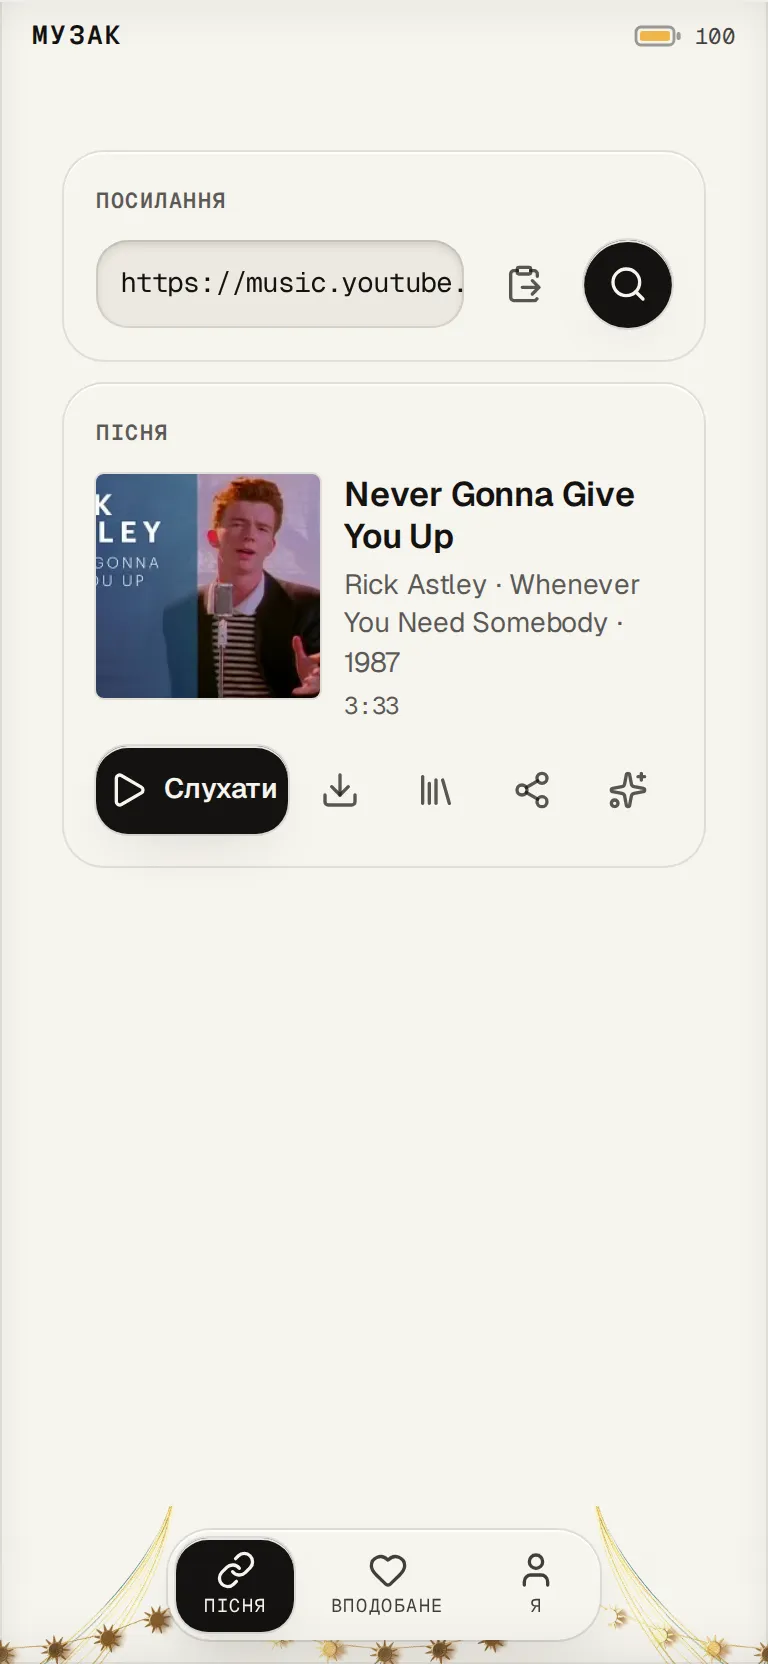
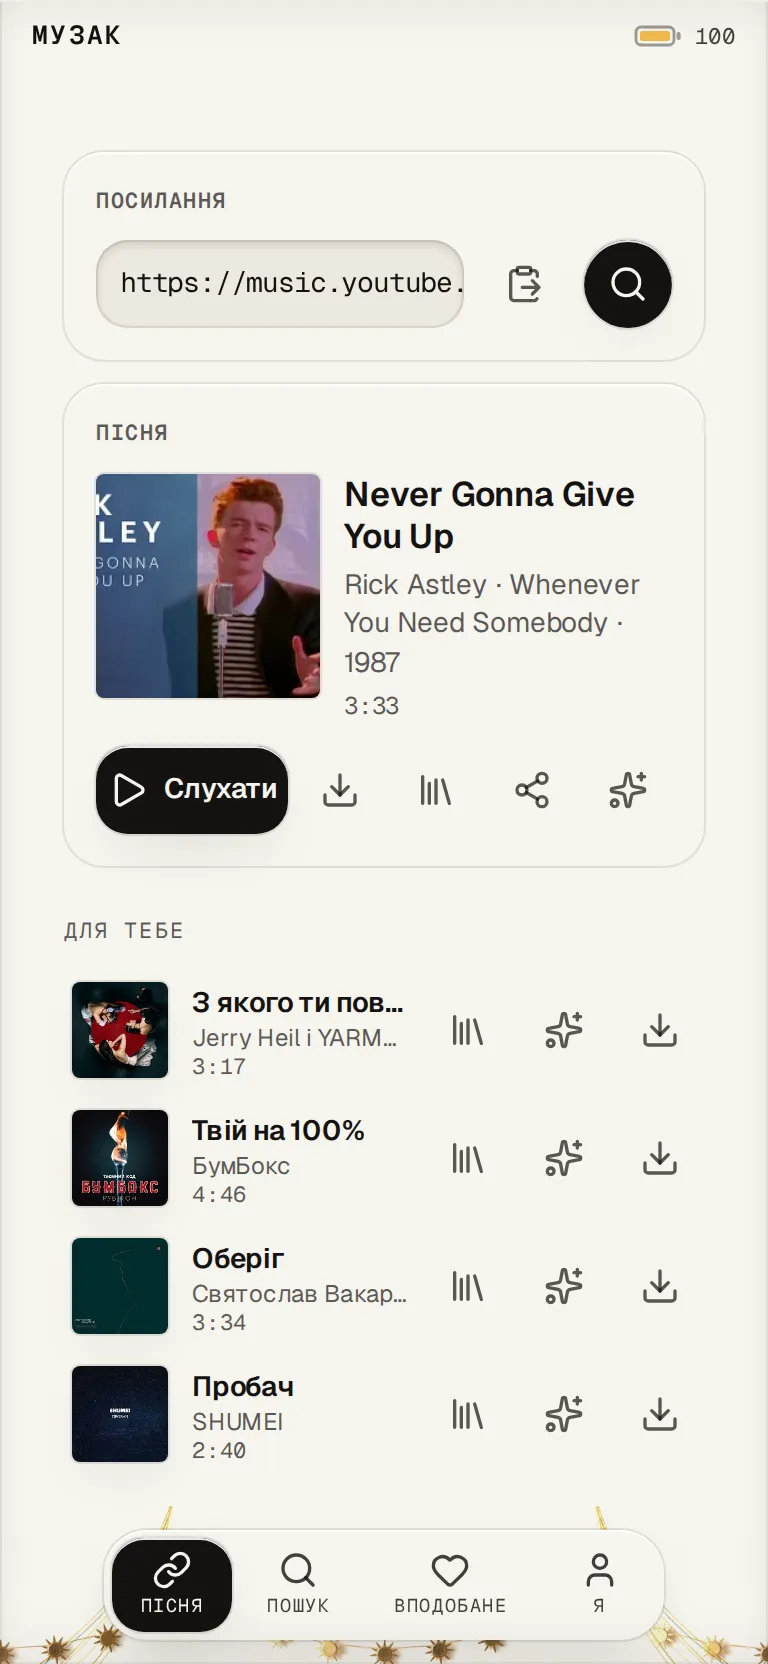
muzak: «Для тебе» — songs like the liked ones, under the song card and on search before a search
Owner 2026-10-14: the song and search screens were empty space; recommendations for the account, from the
radio of the liked songs. The three latest likes' YouTube Music radios (/feed/music/radio, microspec-edge
12052e7: 45-49 songs each in ~0.9 s, measured live) are mixed in turns by rt/muzak.js mixRadios, without the
liked songs; the list scrolls on with the next two likes' radios. Shared by both tabs, read once a visit.
Not connected: one line and «Підключити YouTube». The song tab gets the big player over the list when one of
these plays; the section sits beside the card, so the card's tools stay its own.

The store's song capture retaken with the section; the search capture retaken at the full 2x size the rest
of the store uses (my 2026-10-13 import had halved it).

diff --git a/apps/muzak/view.js b/apps/muzak/view.js
@@ -13,10 +13,10 @@ import { holdAudio } from "/_rt/mediasession.js";
 import { sealedUrl } from "/_rt/sealedfetch.js";
 import { authWall } from "/_rt/authwall.js";
 import { shapeOf, scalePath, shaper } from "/_rt/shape.js";
-import { videoId, clock, byline, errorKey, songOfFound, FIXTURE_LINK, FIXTURE_META, FIXTURE_LIKES, FIXTURE_QUERY, FIXTURE_SEARCH } from "/_rt/muzak.js";
+import { videoId, clock, byline, errorKey, songOfFound, mixRadios, FIXTURE_LINK, FIXTURE_META, FIXTURE_LIKES, FIXTURE_QUERY, FIXTURE_SEARCH, FIXTURE_RADIO } from "/_rt/muzak.js";
 import { taskOne, taskCall } from "/_rt/task.js";
 import { session, restore } from "/_rt/auth.js";
-import { useLikes, LikesConnect, LikesHead, LikeRow, LikesSkeleton } from "/_rt/ytlikes.js";
+import { useLikes, connect, $lBusy, LikesConnect, LikesHead, LikeRow, LikesSkeleton } from "/_rt/ytlikes.js";
 
 // MUZAK is a PLAYER (owner 2026-10-11): a song from a link or from the person's YouTube likes is LISTENED to here,
 // kept in Fonoteka, shared as a Muzak link, handed to Remix for a mix, or downloaded as an mp3. The sound is made on the edge from the song's id (/feed/library/play, a sealed
@@ -213,7 +213,8 @@ export function muzak({ S, toast }) {
   const song = meta ? songOfMeta(meta, link) : null;
   const on = !!song && cur === song.id;
 
-  return html`<div data-muzak data-busy=${busy || null} data-song=${meta ? meta.id : null} data-playing=${on && playing ? "true" : null} class="flex flex-col gap-[var(--ms-gap)] p-[var(--ms-pad)]">
+  return html`<div class="flex flex-col">
+  <div data-muzak data-busy=${busy || null} data-song=${meta ? meta.id : null} data-playing=${on && playing ? "true" : null} class="flex flex-col gap-[var(--ms-gap)] p-[var(--ms-pad)]">
     <${Panel} title=${T(t, "link")}>
       <form class="flex items-center gap-2" onSubmit=${(e) => { e.preventDefault(); find(link); }}>
         <textarea rows="1" data-line ref=${input} data-link inputmode="url" autocomplete="off" autocapitalize="off" spellcheck="false" enterkeyhint="go"
@@ -260,6 +261,9 @@ export function muzak({ S, toast }) {
           class=${`btn btn-ghost btn-circle shrink-0 w-[var(--ms-ctl)] h-[var(--ms-ctl)] min-h-0 ${a.active ? "text-primary" : "text-base-content/70"} ${a.pulse ? "animate-pulse" : ""}`}>${Icon(a.icon, "text-[length:var(--ms-icon)]")}</button>`)}
       </div>`}
     <//>` : null}
+  </div>
+  ${/* beside the card, not in it: the card's tools stay the card's alone */""}
+  <div class="px-[var(--ms-pad)] pb-[var(--ms-pad)] pt-2"><${ForYou} t=${t} locale=${locale} toast=${toast} player /></div>
   </div>`;
 }
 
@@ -346,6 +350,88 @@ export function likes({ S, toast, confirm }) {
   </div>`;
 }
 
+// ── «Для тебе»: songs like the person's liked ones, under the song card and on the search tab before a search ─
+// Owner 2026-10-14: «там де пошук та пісня пусте пространство … ті що рекомендуються для аккаунту» → «роби
+// рекомендації з радіо вподобаних». The edge answers one song's YouTube Music radio (/feed/music/radio, ~50 songs,
+// ~1 s); the three latest likes' radios are mixed in turns (mixRadios), without the liked songs themselves. The
+// list scrolls on: the next two likes' radios join it as its end nears. Read once a visit, shared by both tabs.
+const SEEDS_FIRST = 3, SEEDS_MORE = 2;
+const $recs = atom(gate ? FIXTURE_RADIO.songs.map(songOfFound) : null);   // null: not read yet
+const $rbusy = atom(""), $rerr = atom("");   // busy: "" · "list" · "more"
+let rseed = 0;
+async function readRecs(liked, locale, more = false) {
+  if (gate || $rbusy.get() || (!more && $recs.get()) || rseed >= liked.length) return;
+  const seeds = liked.slice(rseed, rseed + (more ? SEEDS_MORE : SEEDS_FIRST)), was = $recs.get() || [];
+  rseed += seeds.length;
+  $rerr.set(""); $rbusy.set(more ? "more" : "list");
+  try {
+    const got = await Promise.allSettled(seeds.map((s) => fetch(`${VPS_PROXY}/music/radio?v=${s.id}&hl=${locale === "en" ? "en" : "uk"}`, { signal: AbortSignal.timeout(30000) })
+      .then((r) => (r.ok ? r.json() : Promise.reject(r.status)))));
+    const lists = got.filter((g) => g.status === "fulfilled").map((g) => (g.value.songs || []).map(songOfFound));
+    if (!lists.length) { if (!was.length) $rerr.set("errRecs"); return; }
+    const songs = [...was, ...mixRadios(lists, [...liked.map((s) => s.id), ...was.map((s) => s.id)])];
+    $recs.set(songs);
+    if (more && $q.get() === was) $q.set(songs);   // the player was walking this list: it walks on into the new songs
+  } catch { if (!was.length) $rerr.set("errRecs"); }
+  finally { $rbusy.set(""); }
+}
+
+// the big player — the orb and the form transport — for a song played from a list on a tab that has no card for it
+function Player({ now, t, locale, toast }) {
+  const playing = useStore($playing), loading = useStore($loading), pos = useStore($pos), dur = useStore($dur), kept = useStore($kept), repeat = useStore($repeat), dl = useStore($dl), mixed = useStore($mixed);
+  return html`<section data-player aria-label=${T(t, "now")} class="flex flex-col items-center gap-[var(--ms-gap)]">
+    <${Orb} song=${now} />
+    <${Transport} form locale=${locale} playing=${playing} onToggle=${() => toggle()} className="w-full pt-1"
+      onPrev=${() => step(-1)} onNext=${() => step(1)} pos=${pos} dur=${dur} onSeek=${seek} onScrub=${seek} repeat=${shownRepeat(repeat)} onRepeat=${flipRepeat}
+      title=${now.title} subtitle=${loading ? T(t, "preparing") : [now.artist, clock(now.dur)].filter(Boolean).join(" · ")}
+      actions=${actionsFor(now, kept[now.id], dl, t, toast, mixed[now.id]).filter((a) => a.id !== "download")} />
+  </section>`;
+}
+
+// `player`: the tab has no player of its own for these songs (the song tab), so the section shows one on top
+function ForYou({ t, locale, toast, player = false }) {
+  const { l, songs: liked, on, reading } = useLikes();
+  const recs = useStore($recs), busy = useStore($rbusy), err = useStore($rerr), lbusy = useStore($lBusy);
+  const cur = useStore($cur), playing = useStore($playing), kept = useStore($kept), dl = useStore($dl), mixed = useStore($mixed);
+  useEffect(() => { if (on && liked.length) readRecs(liked, locale); }, [on, liked.length]);
+  const tail = useRef();
+  const more = on && rseed < liked.length;
+  useEffect(() => {
+    if (!tail.current || !more) return;
+    const io = new IntersectionObserver(([e]) => { if (e.isIntersecting) readRecs(liked, locale, true); }, { rootMargin: "0px 0px 600px 0px" });
+    io.observe(tail.current);
+    return () => io.disconnect();
+  }, [recs?.length, busy, more]);
+  if (reading || (l === null && !gate)) return null;   // the likes are being read: nothing to say yet
+  const list = recs || [];
+  const now = player ? list.find((s) => s.id === cur) || null : null;
+
+  return html`<section data-foryou data-songs=${on ? list.length : null} aria-labelledby="mz-foryou" class="flex flex-col gap-[var(--ms-gap)]">
+    ${now ? html`<${Player} now=${now} t=${t} locale=${locale} toast=${toast} />` : null}
+    <h2 id="mz-foryou" class="font-mono text-[length:var(--ms-label)] uppercase tracking-wider text-base-content/70">${T(t, "forYou")}</h2>
+    ${!on ? html`<div data-connect class="flex flex-col gap-3">
+        <p class="text-sm leading-relaxed text-base-content/80">${T(t, "forYouConnect")}</p>
+        <button data-yt-connect disabled=${lbusy === "connect"} onClick=${() => connect("muzak")}
+          class=${`btn btn-primary w-full h-[var(--ms-ctl)] min-h-0 gap-2 sf-e3 ${lbusy === "connect" ? "animate-pulse" : ""}`}>
+          ${Icon("lucide:heart", "text-[length:var(--ms-icon)]")}<span>${T(t, lbusy === "connect" ? "connecting" : "connect")}</span>
+        </button>
+      </div>`
+    : !liked.length ? html`<p data-none class="text-sm text-base-content/70">${T(t, "forYouEmpty")}</p>`
+    : err ? html`<div data-err role="alert" class="text-sm text-error">${T(t, err)}</div>`
+    : busy === "list" || !recs ? html`<div class="flex flex-col gap-1"><${LikesSkeleton} /></div>`
+    : html`<div class="flex flex-col gap-1">
+        ${list.map((s) => {
+          const here = cur === s.id;
+          return html`<${LikeRow} key=${s.id} s=${s} here=${here} busy=${here && playing} label=${`${T(t, "aPlay")}: ${s.title}`} onPick=${() => toggle(s, list)} attr=${{ "data-play": s.id }}>
+            ${rowTools(s, { t, toast, kept, mixed, dl })}
+          <//>`;
+        })}
+        ${busy === "more" ? html`<${LikesSkeleton} n=${2} />` : null}
+        ${more ? html`<div ref=${tail} data-tail aria-hidden="true" class="h-px"></div>` : null}
+      </div>`}
+  </section>`;
+}
+
 // ── tab «Пошук»: any song on YouTube Music by its name, played here (owner 2026-10-13: «додамо пошук пісень на
 // ютубі у апці музак, новий розділ окремий») ────────────────────────────────────────────────────────────────
 // The edge searches YouTube Music itself (/feed/music/search, no daily limit — the owner's pick over the Data API's
@@ -381,12 +467,13 @@ async function lookup(q, locale, more = false) {
 export function search({ S, toast }) {
   const t = useStore(S.t), locale = useStore(S.locale);
   const q = useStore($sq), found = useStore($found), busy = useStore($sbusy), err = useStore($serr), playErr = useStore($err);
-  const cur = useStore($cur), playing = useStore($playing), loading = useStore($loading), pos = useStore($pos), dur = useStore($dur), kept = useStore($kept), repeat = useStore($repeat), dl = useStore($dl), mixed = useStore($mixed);
+  const cur = useStore($cur), playing = useStore($playing), kept = useStore($kept), dl = useStore($dl), mixed = useStore($mixed), recs = useStore($recs);
   const input = useRef();
   useEffect(() => { if (!gate && found === null) input.current?.focus(); }, []);
   useEffect(() => { if (!gate) restore().catch(() => {}); }, []);   // listening needs the session
   const songs = found || [];
-  const now = songs.find((s) => s.id === cur) || null;   // the player shows here only for a song played from this list
+  // the player shows here only for a song played from this list, or from «Для тебе» under the hint
+  const now = songs.find((s) => s.id === cur) || (found === null && recs?.find((s) => s.id === cur)) || null;
   // the observer is made again whenever the list grows, so a page too short to scroll still pulls the next one
   const tail = useRef();
   useEffect(() => {
@@ -408,20 +495,15 @@ export function search({ S, toast }) {
     </form>
     ${err || playErr ? html`<div data-err role="alert" class="text-sm text-error">${T(t, err || playErr)}</div>` : null}
 
-    ${now ? html`<section data-player aria-label=${T(t, "now")} class="flex flex-col items-center gap-[var(--ms-gap)]">
-      <${Orb} song=${now} />
-      <${Transport} form locale=${locale} playing=${playing} onToggle=${() => toggle()} className="w-full pt-1"
-        onPrev=${() => step(-1)} onNext=${() => step(1)} pos=${pos} dur=${dur} onSeek=${seek} onScrub=${seek} repeat=${shownRepeat(repeat)} onRepeat=${flipRepeat}
-        title=${now.title} subtitle=${loading ? T(t, "preparing") : [now.artist, clock(now.dur)].filter(Boolean).join(" · ")}
-        actions=${actionsFor(now, kept[now.id], dl, t, toast, mixed[now.id]).filter((a) => a.id !== "download")} />
-    </section>` : null}
+    ${now ? html`<${Player} now=${now} t=${t} locale=${locale} toast=${toast} />` : null}
 
     ${busy === "list" ? html`<${LikesSkeleton} />`
-    : found === null ? html`<div data-hint class="py-8 flex flex-col items-center gap-2 text-center text-base-content/70">
+    : found === null ? html`<div data-hint class="py-4 flex flex-col items-center gap-2 text-center text-base-content/70">
         ${Icon("lucide:audio-lines", "text-3xl text-primary")}
         <div class="font-semibold text-sm text-base-content">${T(t, "searchHintTitle")}</div>
         <div class="text-sm max-w-[32ch]">${T(t, "searchHint")}</div>
-      </div>`
+      </div>
+      <${ForYou} t=${t} locale=${locale} toast=${toast} />`
     : !songs.length ? html`<div data-none class="py-6 flex flex-col items-center gap-1 text-center">
         <div class="font-semibold text-sm">${T(t, "searchEmpty")}</div><div class="text-sm text-base-content/70">${T(t, "searchEmptyHint")}</div>
       </div>`

diff --git a/rt/muzak.js b/rt/muzak.js
@@ -44,3 +44,27 @@ export const FIXTURE_SEARCH = { songs: [
   { id: "kKbuv7NAMTc", title: "Я так хочу...", artist: "Океан Ельзи", album: "Dolce vita", duration: 282, cover: "https://i.ytimg.com/vi/kKbuv7NAMTc/mqdefault.jpg" },
   { id: "hTU6Kz6muXQ", title: "Дві весни", artist: "Jerry Heil і Sviatoslav Vakarchuk", album: "Дві весни", duration: 231, cover: "https://i.ytimg.com/vi/hTU6Kz6muXQ/mqdefault.jpg" },
 ] };
+
+// «Для тебе» (owner 2026-10-14: «роби рекомендації з радіо вподобаних»): the radios of a few liked songs, taken in
+// turns — first of each, then second of each — so one seed never fills the screen; a song already met (a liked one,
+// one shown earlier, one in two radios) is dropped.
+export function mixRadios(lists, skip = []) {
+  const out = [], seen = new Set(skip);
+  for (let i = 0, any = true; any; i++) {
+    any = false;
+    for (const l of lists) {
+      if (i >= l.length) continue;
+      any = true;
+      if (!seen.has(l[i].id)) { seen.add(l[i].id); out.push(l[i]); }
+    }
+  }
+  return out;
+}
+
+// The radio reply as the edge answers it (/feed/music/radio), for the gate and the store's capture.
+export const FIXTURE_RADIO = { songs: [
+  { id: "EdSz0PeLVgY", title: "З якого ти поверху неба?", artist: "Jerry Heil і YARMAK", album: "АРХЕТИПИ", duration: 197, cover: "https://i.ytimg.com/vi/EdSz0PeLVgY/mqdefault.jpg" },
+  { id: "iJF2vlu0308", title: "Твій на 100%", artist: "БумБокс", album: "Таємний код Рубікон Частина 1", duration: 286, cover: "https://i.ytimg.com/vi/iJF2vlu0308/mqdefault.jpg" },
+  { id: "xrI5jBPT4Cw", title: "Оберіг", artist: "Святослав Вакарчук", album: "Оранжерея", duration: 214, cover: "https://i.ytimg.com/vi/xrI5jBPT4Cw/mqdefault.jpg" },
+  { id: "lf7NA8FwMxo", title: "Пробач", artist: "SHUMEI", album: "Пробач", duration: 160, cover: "https://i.ytimg.com/vi/lf7NA8FwMxo/mqdefault.jpg" },
+] };

diff --git a/rt/tests/muzak_test.js b/rt/tests/muzak_test.js
@@ -1,5 +1,12 @@
 import { assertEquals } from "jsr:@std/assert@1";
-import { videoId, clock, byline, errorKey, songOfFound, FIXTURE_SEARCH } from "../muzak.js";
+import { videoId, clock, byline, errorKey, songOfFound, mixRadios, FIXTURE_SEARCH } from "../muzak.js";
+
+Deno.test("mixRadios: the radios in turns, no song twice, none of the skipped ones", () => {
+  const s = (id) => ({ id });
+  assertEquals(mixRadios([[s("a1"), s("a2"), s("a3")], [s("b1"), s("a2")], [s("c1")]]).map((x) => x.id), ["a1", "b1", "c1", "a2", "a3"]);
+  assertEquals(mixRadios([[s("a1"), s("liked")], [s("liked"), s("b2")]], ["liked", "shown"]).map((x) => x.id), ["a1", "b2"]);
+  assertEquals(mixRadios([]), []);
+});
 
 Deno.test("videoId: YouTube link shapes give the id, anything else null", () => {
   for (const u of ["https://music.youtube.com/watch?v=dQw4w9WgXcQ&list=RD", "https://youtu.be/dQw4w9WgXcQ?si=1", "https://youtube.com/shorts/dQw4w9WgXcQ", " https://m.youtube.com/watch?v=dQw4w9WgXcQ "]) assertEquals(videoId(u), "dQw4w9WgXcQ", u);
